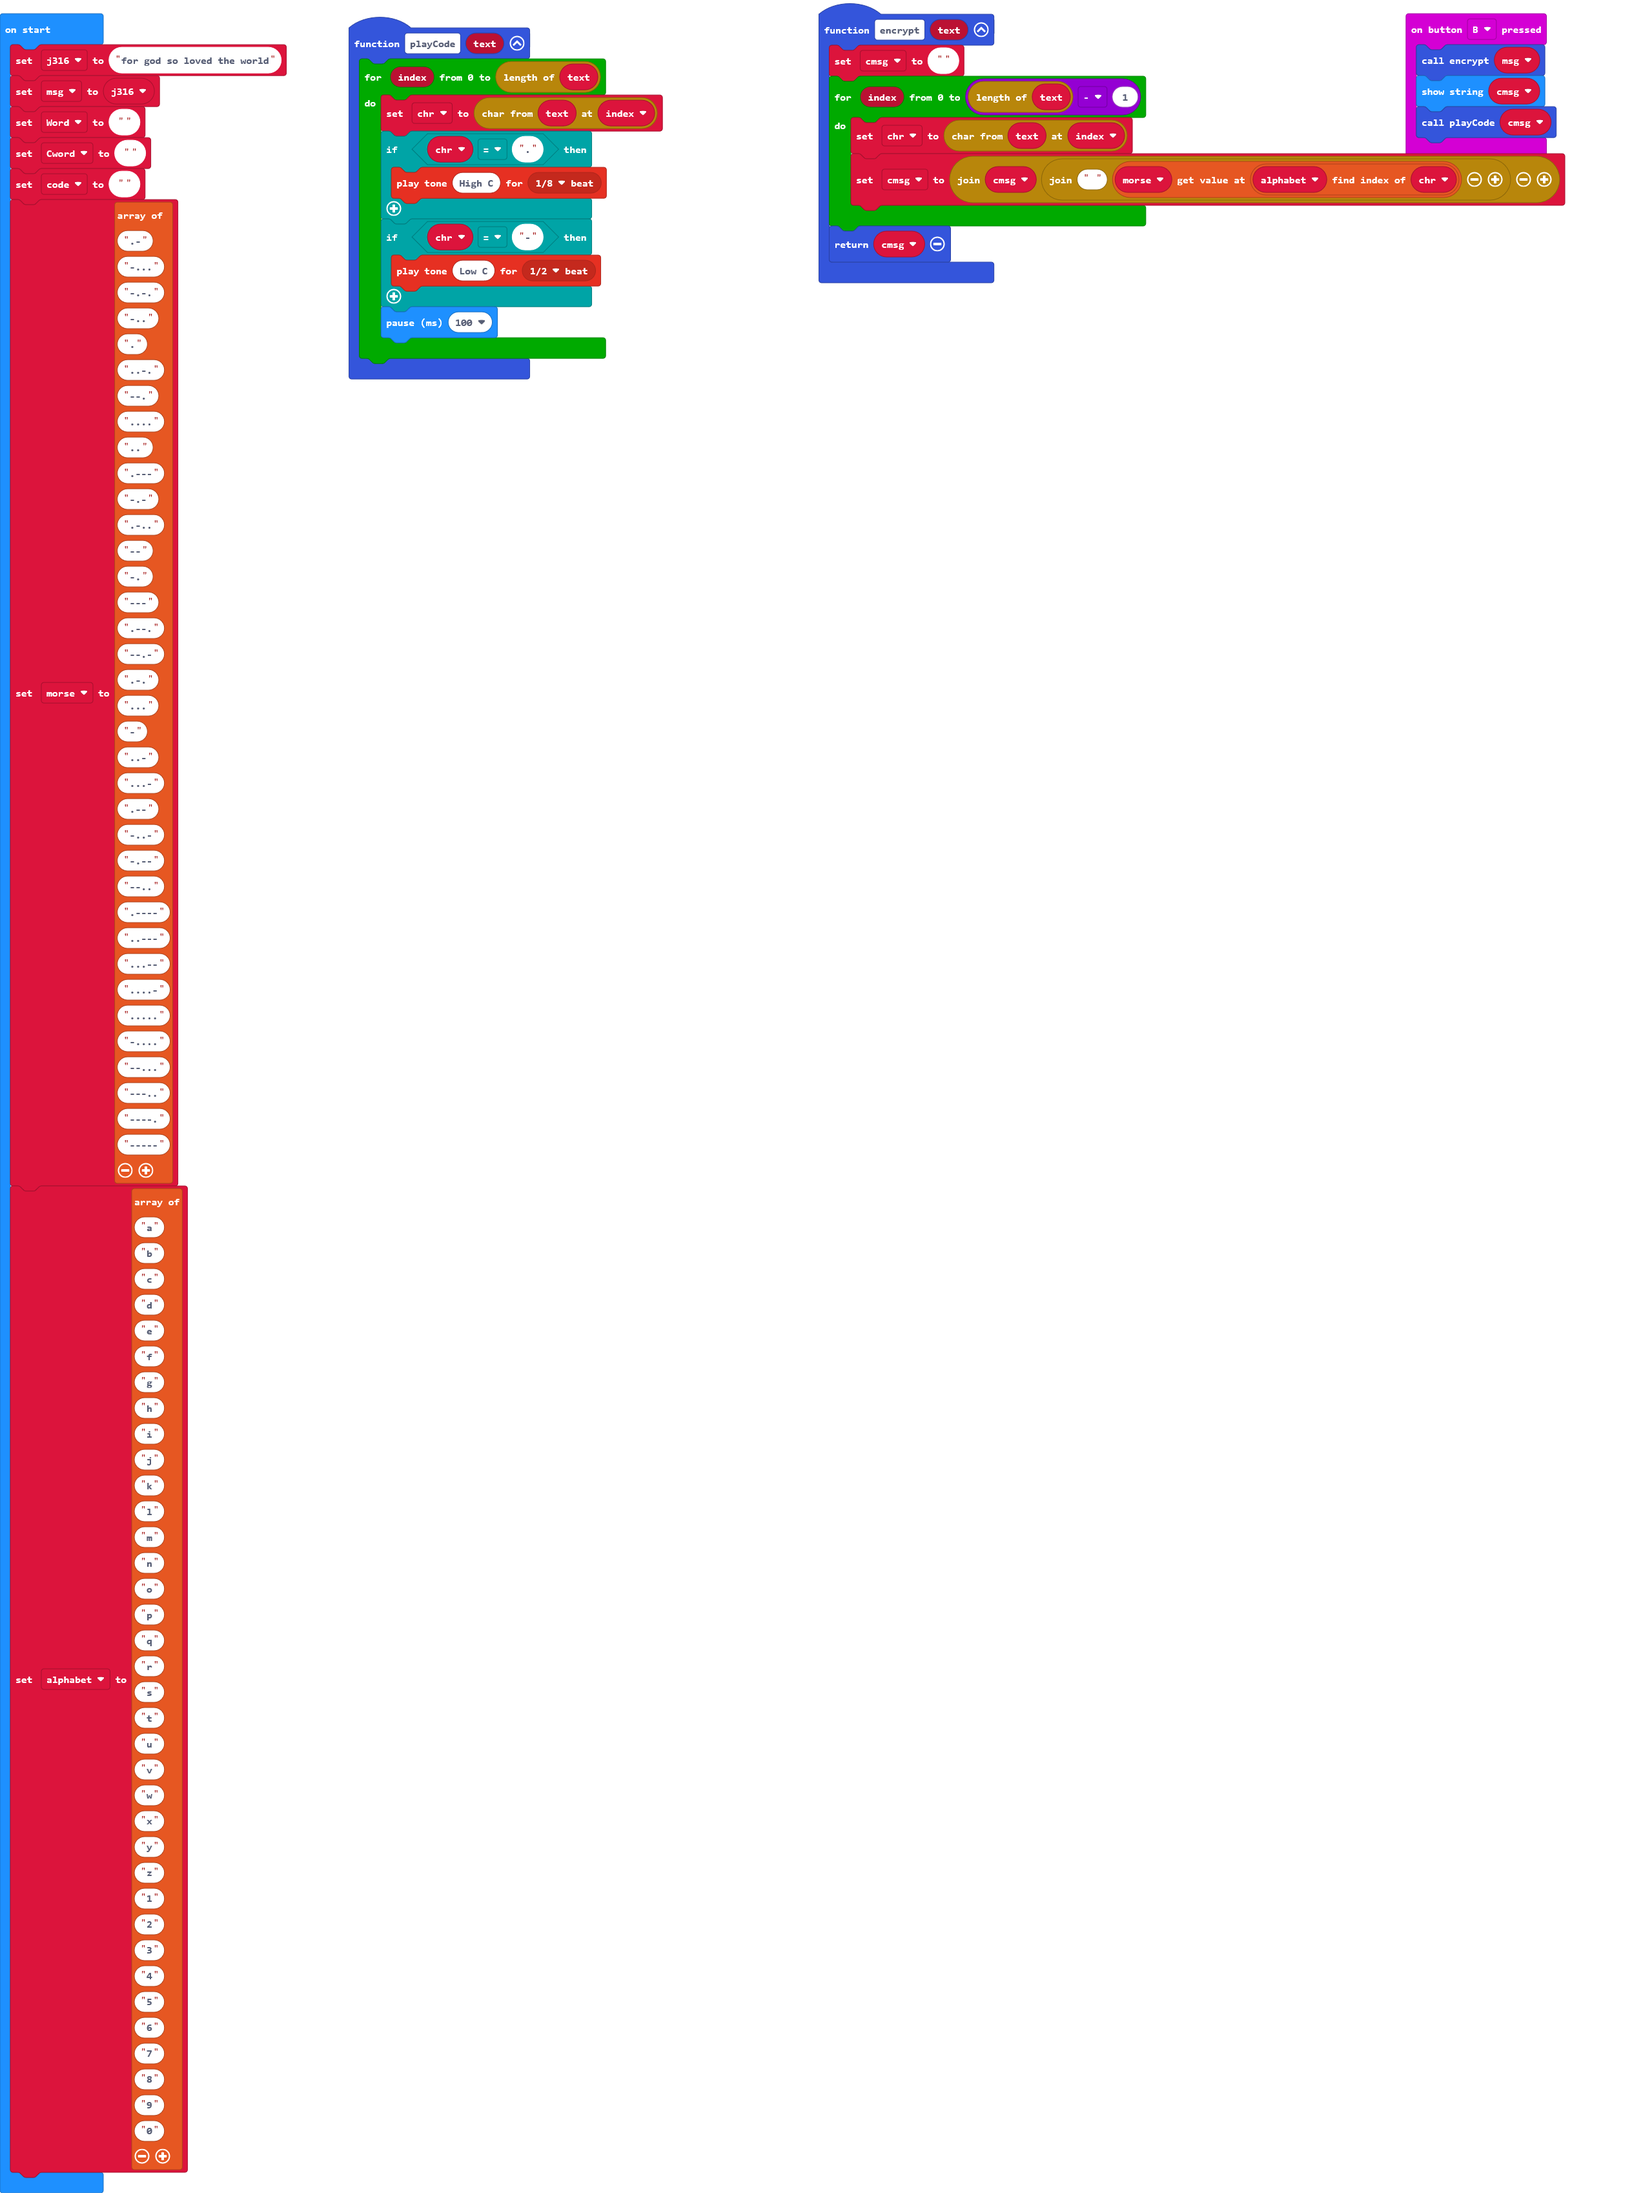
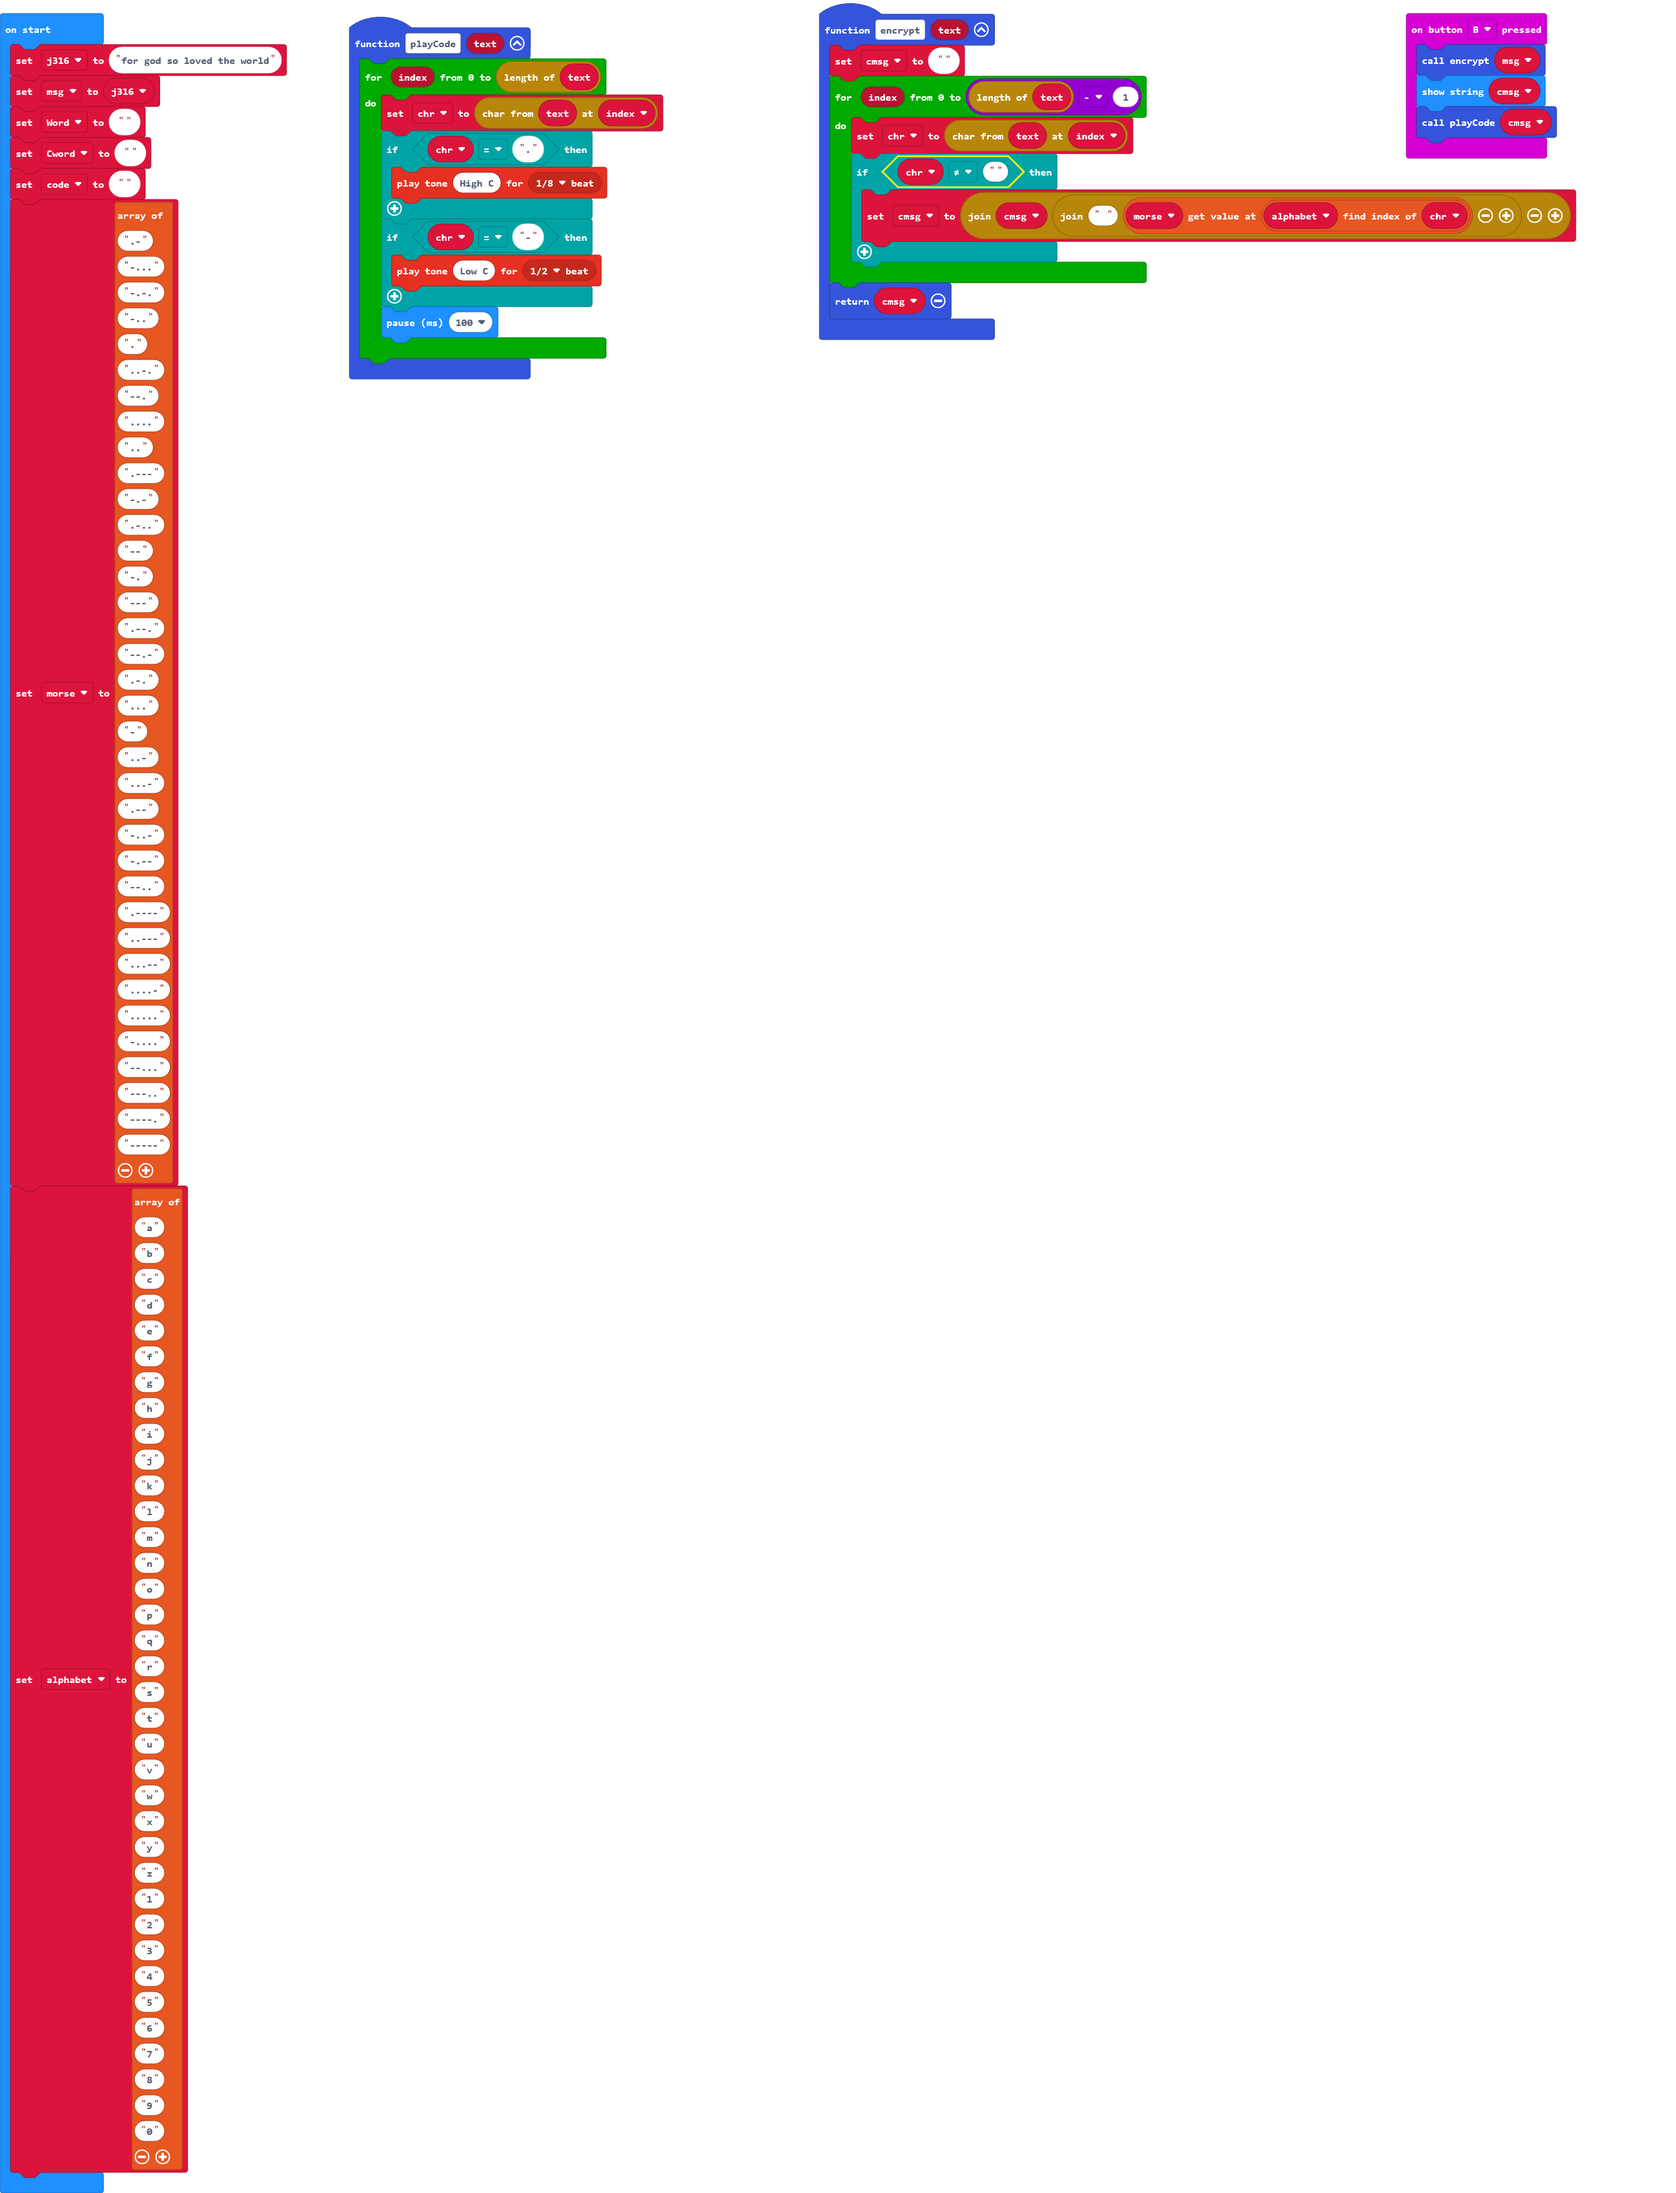
Update main.blocks, main.ts

diff --git a/main.ts b/main.ts
@@ -2,7 +2,9 @@ function encrypt (text: string) {
     cmsg = ""
     for (let index = 0; index <= text.length - 1; index++) {
         chr = text.charAt(index)
-        cmsg = "" + cmsg + (" " + morse[alphabet.indexOf(chr)])
+        if (chr != "") {
+            cmsg = "" + cmsg + (" " + morse[alphabet.indexOf(chr)])
+        }
     }
     return cmsg
 }
